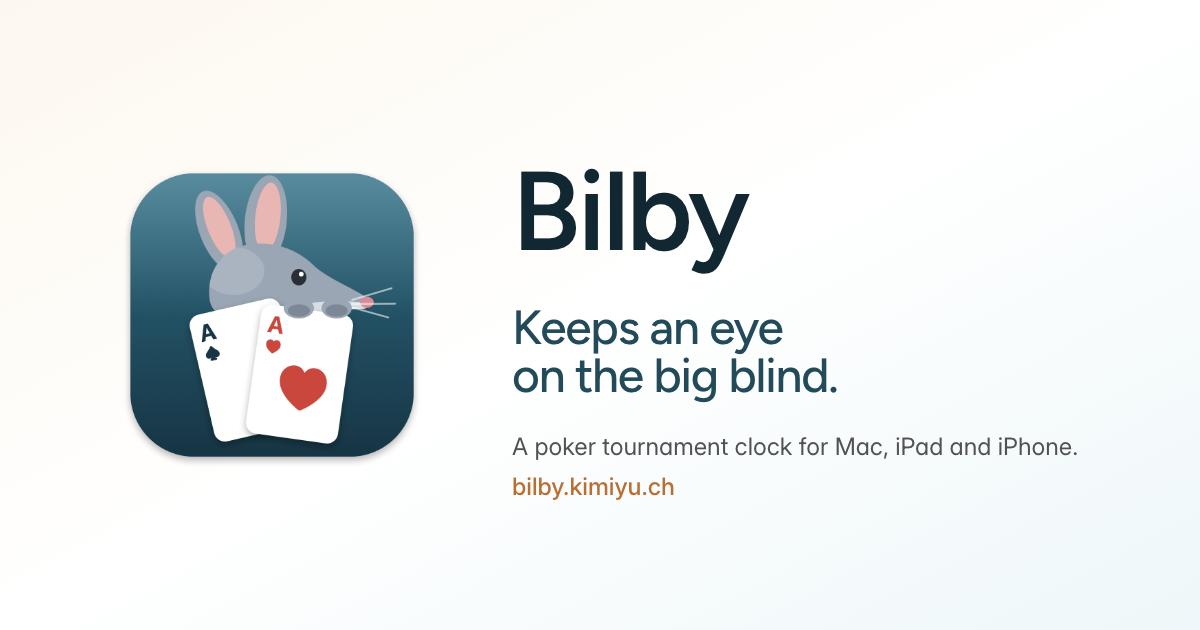
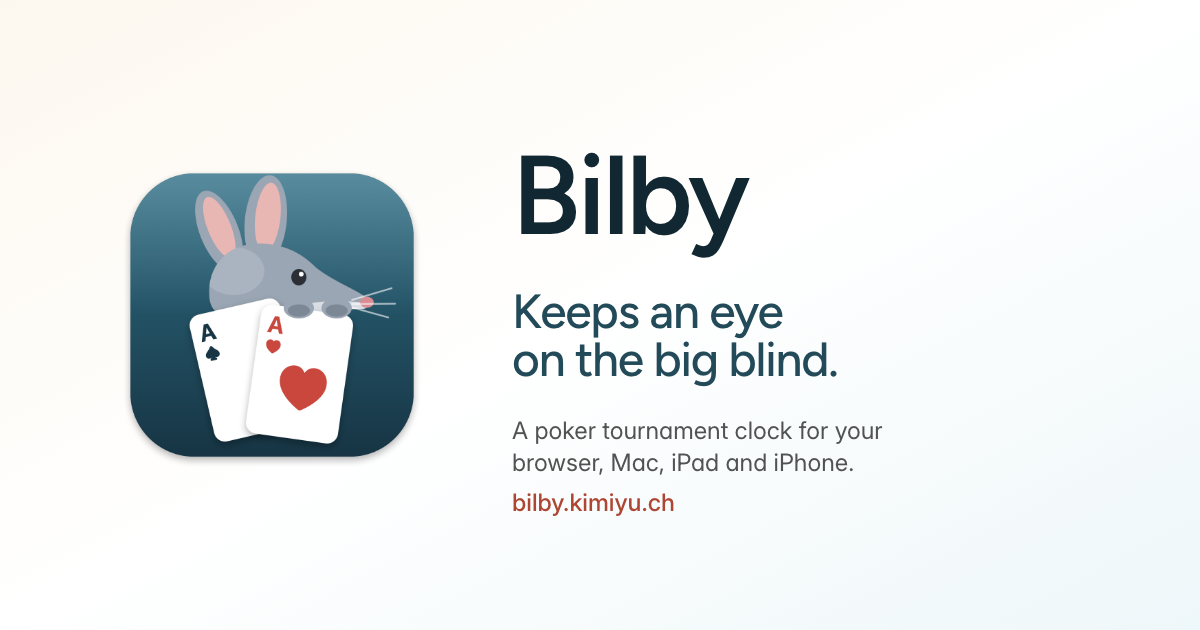
Changelog for 0.1.2; title, descriptions and share image mention the browser version

Changed region(s): [[0.4317, 0.6635, 0.8942, 0.8143], [0.4317, 0.4524, 0.7092, 0.6333], [0.4317, 0.2413, 0.6475, 0.4524]]

diff --git a/resources/views/components/layouts/app.blade.php b/resources/views/components/layouts/app.blade.php
@@ -3,15 +3,15 @@
 <head>
     <meta charset="utf-8">
     <meta name="viewport" content="width=device-width, initial-scale=1">
-    <title>{{ $title ?? 'Bilby: a poker tournament clock for Mac, iPad and iPhone' }}</title>
-    <meta name="description" content="Bilby is a calm, native poker tournament clock for Mac, iPad and iPhone. Blind structures, a big screen for the TV, spoken announcements, and the prize pool kept straight.">
+    <title>{{ $title ?? 'Bilby: a poker tournament clock for your browser, Mac, iPad and iPhone' }}</title>
+    <meta name="description" content="Bilby is a calm poker tournament clock that runs in any browser, and as an app for Mac, iPad and iPhone. Blind structures, full screen for the TV, spoken announcements, and the prize pool kept straight. Free, no account.">
 
     <meta property="og:type" content="website">
     <meta property="og:site_name" content="Bilby">
-    <meta property="og:title" content="Bilby: a poker tournament clock for Mac, iPad and iPhone">
-    <meta property="og:description" content="A calm, native poker tournament clock. Bilby keeps an eye on the big blind, so you can keep yours on the cards.">
+    <meta property="og:title" content="Bilby: a poker tournament clock for your browser, Mac, iPad and iPhone">
+    <meta property="og:description" content="A calm poker tournament clock for your browser, Mac, iPad and iPhone. Bilby keeps an eye on the big blind, so you can keep yours on the cards.">
     <meta property="og:url" content="{{ url('/') }}">
-    <meta property="og:image" content="{{ asset('images/og.png?v=2') }}">
+    <meta property="og:image" content="{{ asset('images/og.png?v=3') }}">
     <meta property="og:image:width" content="1200">
     <meta property="og:image:height" content="630">
     <meta property="og:image:alt" content="The Bilby app icon, a bilby peeking over a pair of aces, next to the words: Keeps an eye on the big blind.">

diff --git a/resources/views/changelog.blade.php b/resources/views/changelog.blade.php
@@ -1,6 +1,14 @@
 @php
     $releases = [
         [
+            'version' => '0.1.2',
+            'date' => '2026-10-10',
+            'changes' => [
+                'The clock looks like the browser version: the level, the countdown and the blinds, and a footer with the next level, the next break and a stat in the middle that changes every 12 seconds (levels, players, average stack, prize pool, first place, chips in play, and when the level and the next break start). Amounts are shorter (1.2k), and money shows its currency first.',
+                'The controls are a player strip under the clock: the structure being played, previous, start/pause and next, and a menu with a minute more or less, restart, mute and reset. A button in the corner of the clock opens full screen (the big screen on the Mac).',
+            ],
+        ],
+        [
             'version' => '0.1.1',
             'date' => '2026-10-10',
             'changes' => [

diff --git a/resources/views/play.blade.php b/resources/views/play.blade.php
@@ -15,7 +15,7 @@
     <meta property="og:title" content="Bilby: a poker tournament clock in your browser">
     <meta property="og:description" content="A calm poker tournament clock. Bilby keeps an eye on the big blind, so you can keep yours on the cards.">
     <meta property="og:url" content="{{ url('/play') }}">
-    <meta property="og:image" content="{{ asset('images/og.png?v=2') }}">
+    <meta property="og:image" content="{{ asset('images/og.png?v=3') }}">
     <meta name="twitter:card" content="summary_large_image">
 
     <link rel="icon" type="image/png" href="{{ asset('images/favicon.png?v=2') }}">

diff --git a/resources/views/og-image.blade.php b/resources/views/og-image.blade.php
@@ -14,7 +14,7 @@
             <p class="mt-2 max-w-[20ch] font-display text-5xl font-medium tracking-tight text-balance text-chip-800">
                 Keeps an eye on the big blind.
             </p>
-            <p class="mt-8 text-2xl text-neutral-600">A poker tournament clock for Mac, iPad and iPhone.</p>
+            <p class="mt-8 text-2xl text-balance text-neutral-600">A poker tournament clock for your browser, Mac, iPad and iPhone.</p>
             <p class="mt-2 text-2xl font-medium text-ochre-600">bilby.kimiyu.ch</p>
         </div>
     </div>
